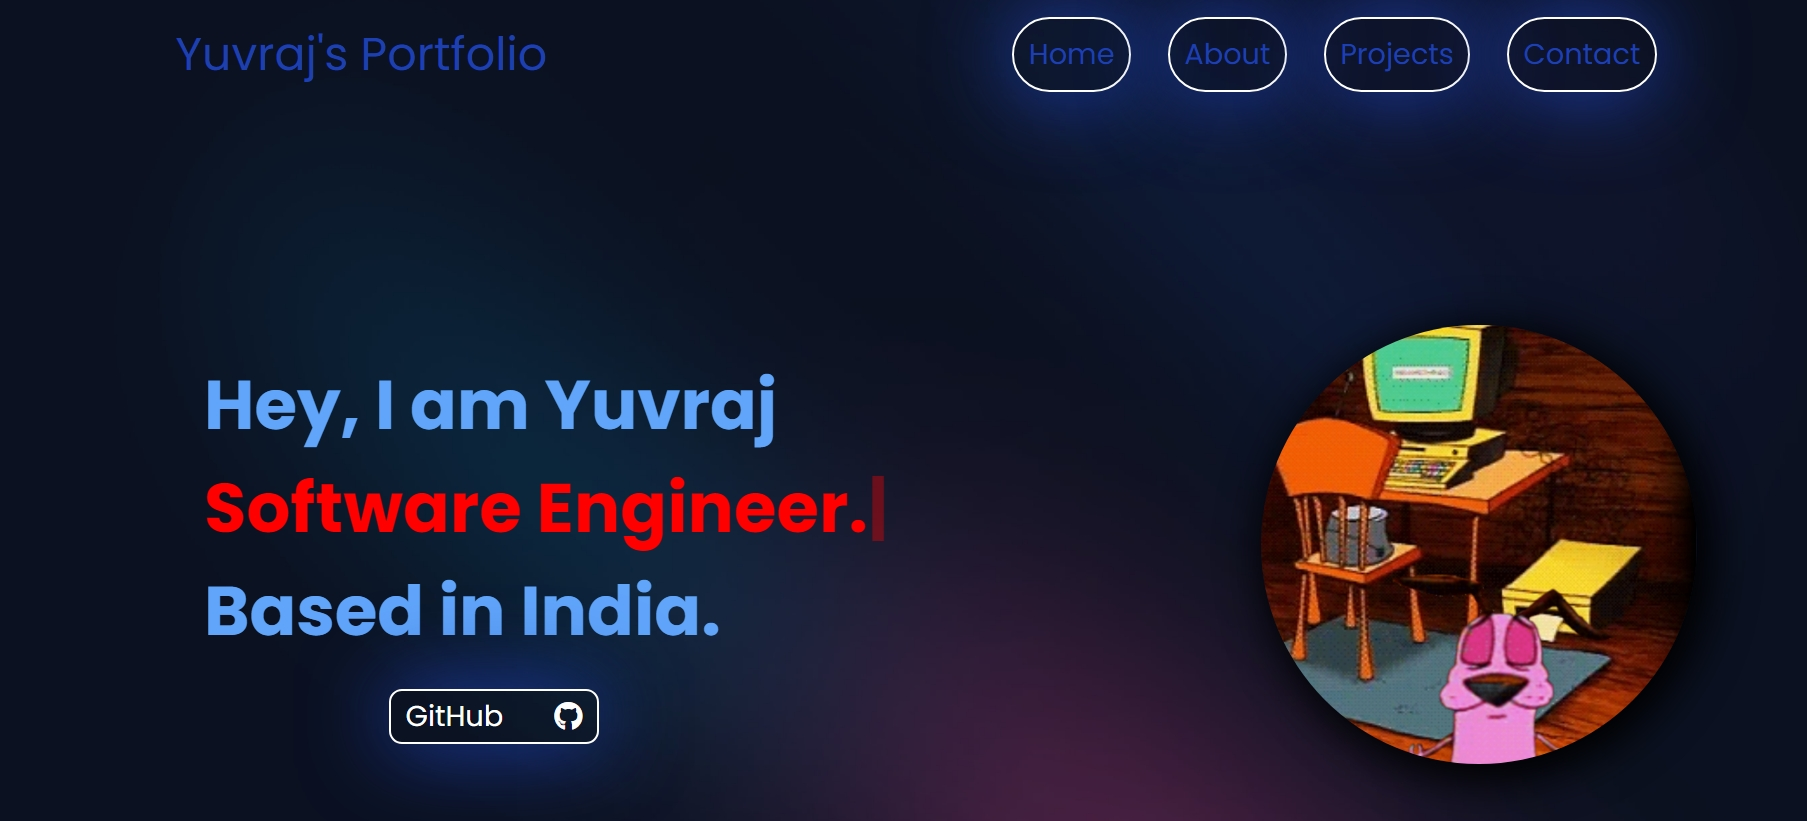
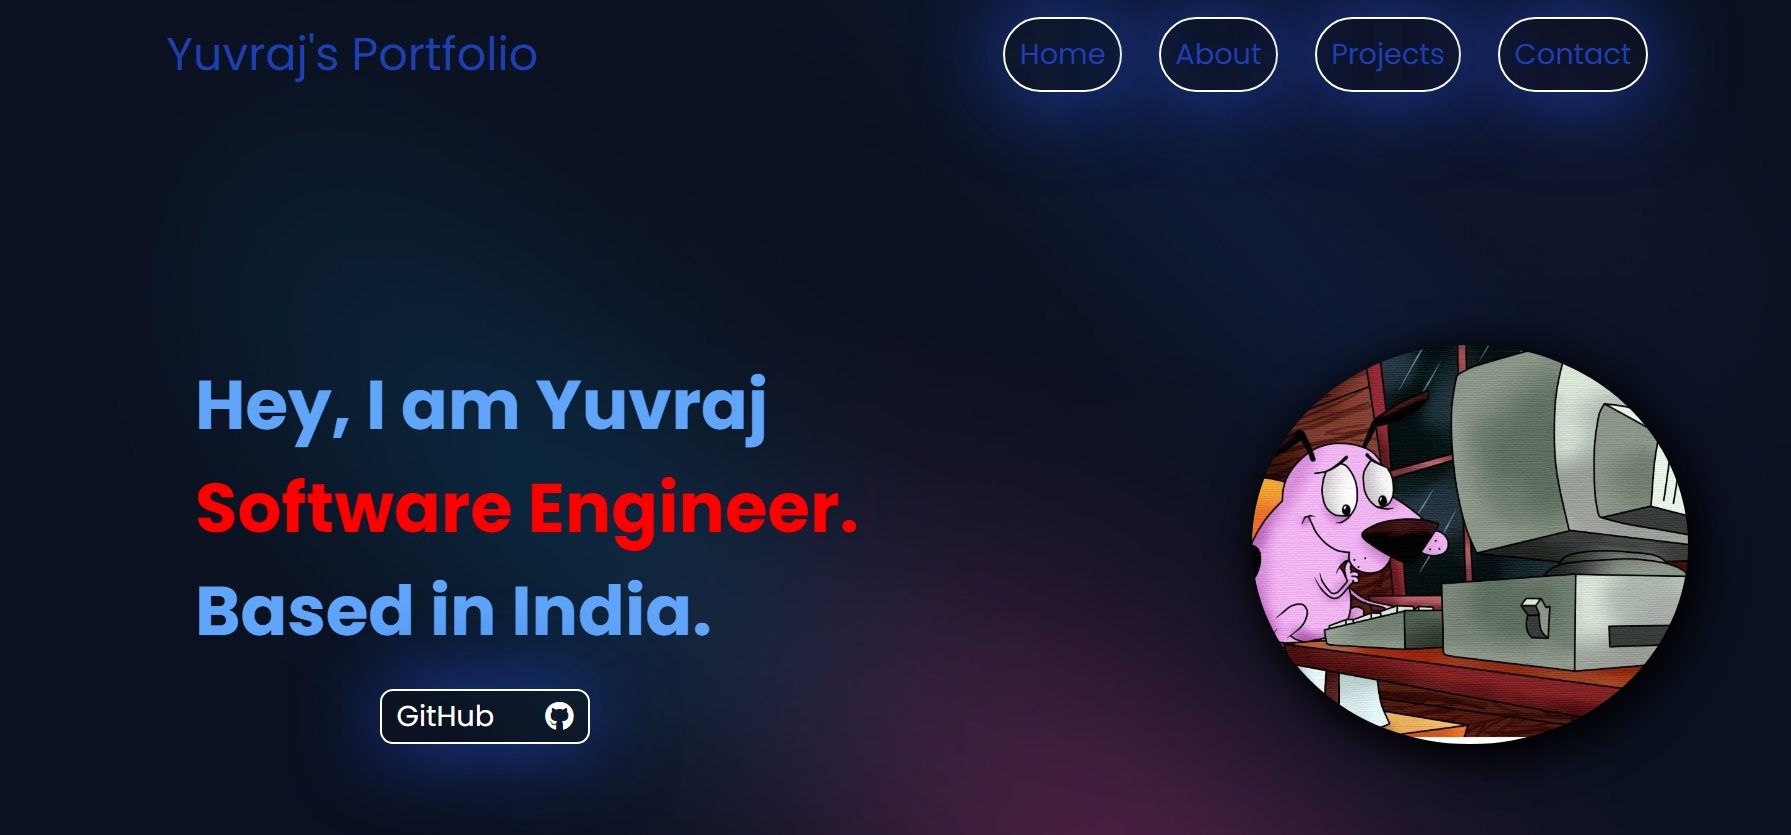
cover

diff --git a/index.html b/index.html
@@ -52,7 +52,7 @@
                     <a href="https://github.com/yuvi-18" target="_blank" class="shadow">GitHub<i class="fa-brands fa-github"></i></a>
                 </div>
                 <div class="mainImg">
-                    <img src="./Assets/cover.png" alt="Profile Photo">
+                    <img src="./Assets/cover.jpg" alt="Profile Photo">
                 </div>
             </section>
     </div>
